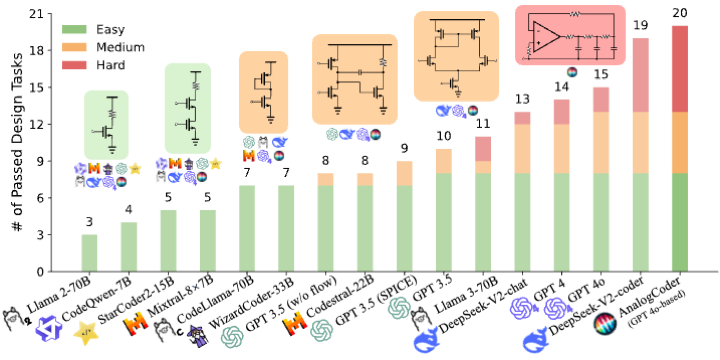
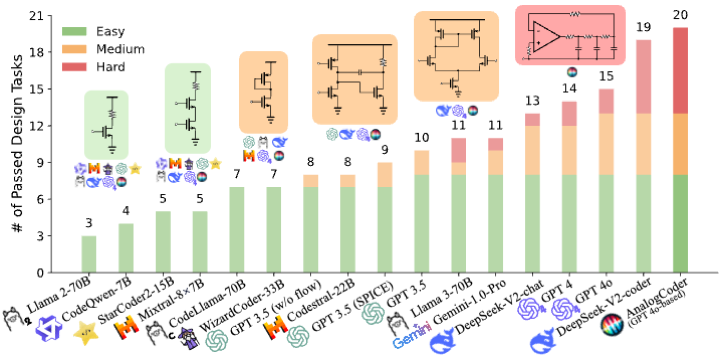
update gemini

diff --git a/README.md b/README.md
@@ -11,7 +11,7 @@ The code implement for paper **AnalogCoder: Analog Circuit Design via Training-F
 # Introduction
 
 <p align="center">
-  <img src="teaser.png" alt="alt text"width="600">
+  <img src="teaser.png" alt="alt text"width="700">
 </p>
 
 **Analog circuit design** is a significant task in modern chip technology, focusing on selecting component types, connectivity, and parameters to ensure proper circuit functionality. Despite advances made by Large Language Models (LLMs) in digital circuit design, the **complexity** and **scarcity of data** in analog circuitry pose significant challenges. To mitigate these issues, we introduce **AnalogCoder**, the *first* training-free LLM agent for designing analog circuits that converts tasks into **Python code generation**. 
@@ -25,6 +25,9 @@ Main advantages of AnalogCoder:
 In summary, AnalogCoder can significantly improve the labor-intensive chip design process, enabling non-experts to efficiently design analog circuits.
 
 # Evaluation of LLMs
+
+**Ranking method**: # of solved (number of successfully solved circuit design problems) takes priority. If tied, higher average Pass@1 takes priority.
+
 | LLM Model               |      Avg. Pass@1 |      Avg. Pass@5 |     # of Solved |
 |-------------------------|-----------------:|-----------------:|----------------:|
 | Llama2-7B               |              0.0 |              0.0 |               0 |
@@ -50,6 +53,7 @@ In summary, AnalogCoder can significantly improve the labor-intensive chip desig
 | GPT-3.5                 |             21.4 |             35.0 |              10 |
 | GPT-3.5 (fine-tune)     |             28.1 |             39.6 |              10 |
 | Llama3-70B              |             28.8 |             36.4 |              11 |
+| Gemini-Pro-1.0              |             28.9 |             41.2 |              11 |
 | DeepSeek-V2-Chat             |             38.6 |             44.3 |              13 |
 | GPT-4o (w/o tool)       |             54.2 |             58.9 |              15 |
 | DeepSeek-V2-Coder             |             56.5 |             69.2 |              19 |
